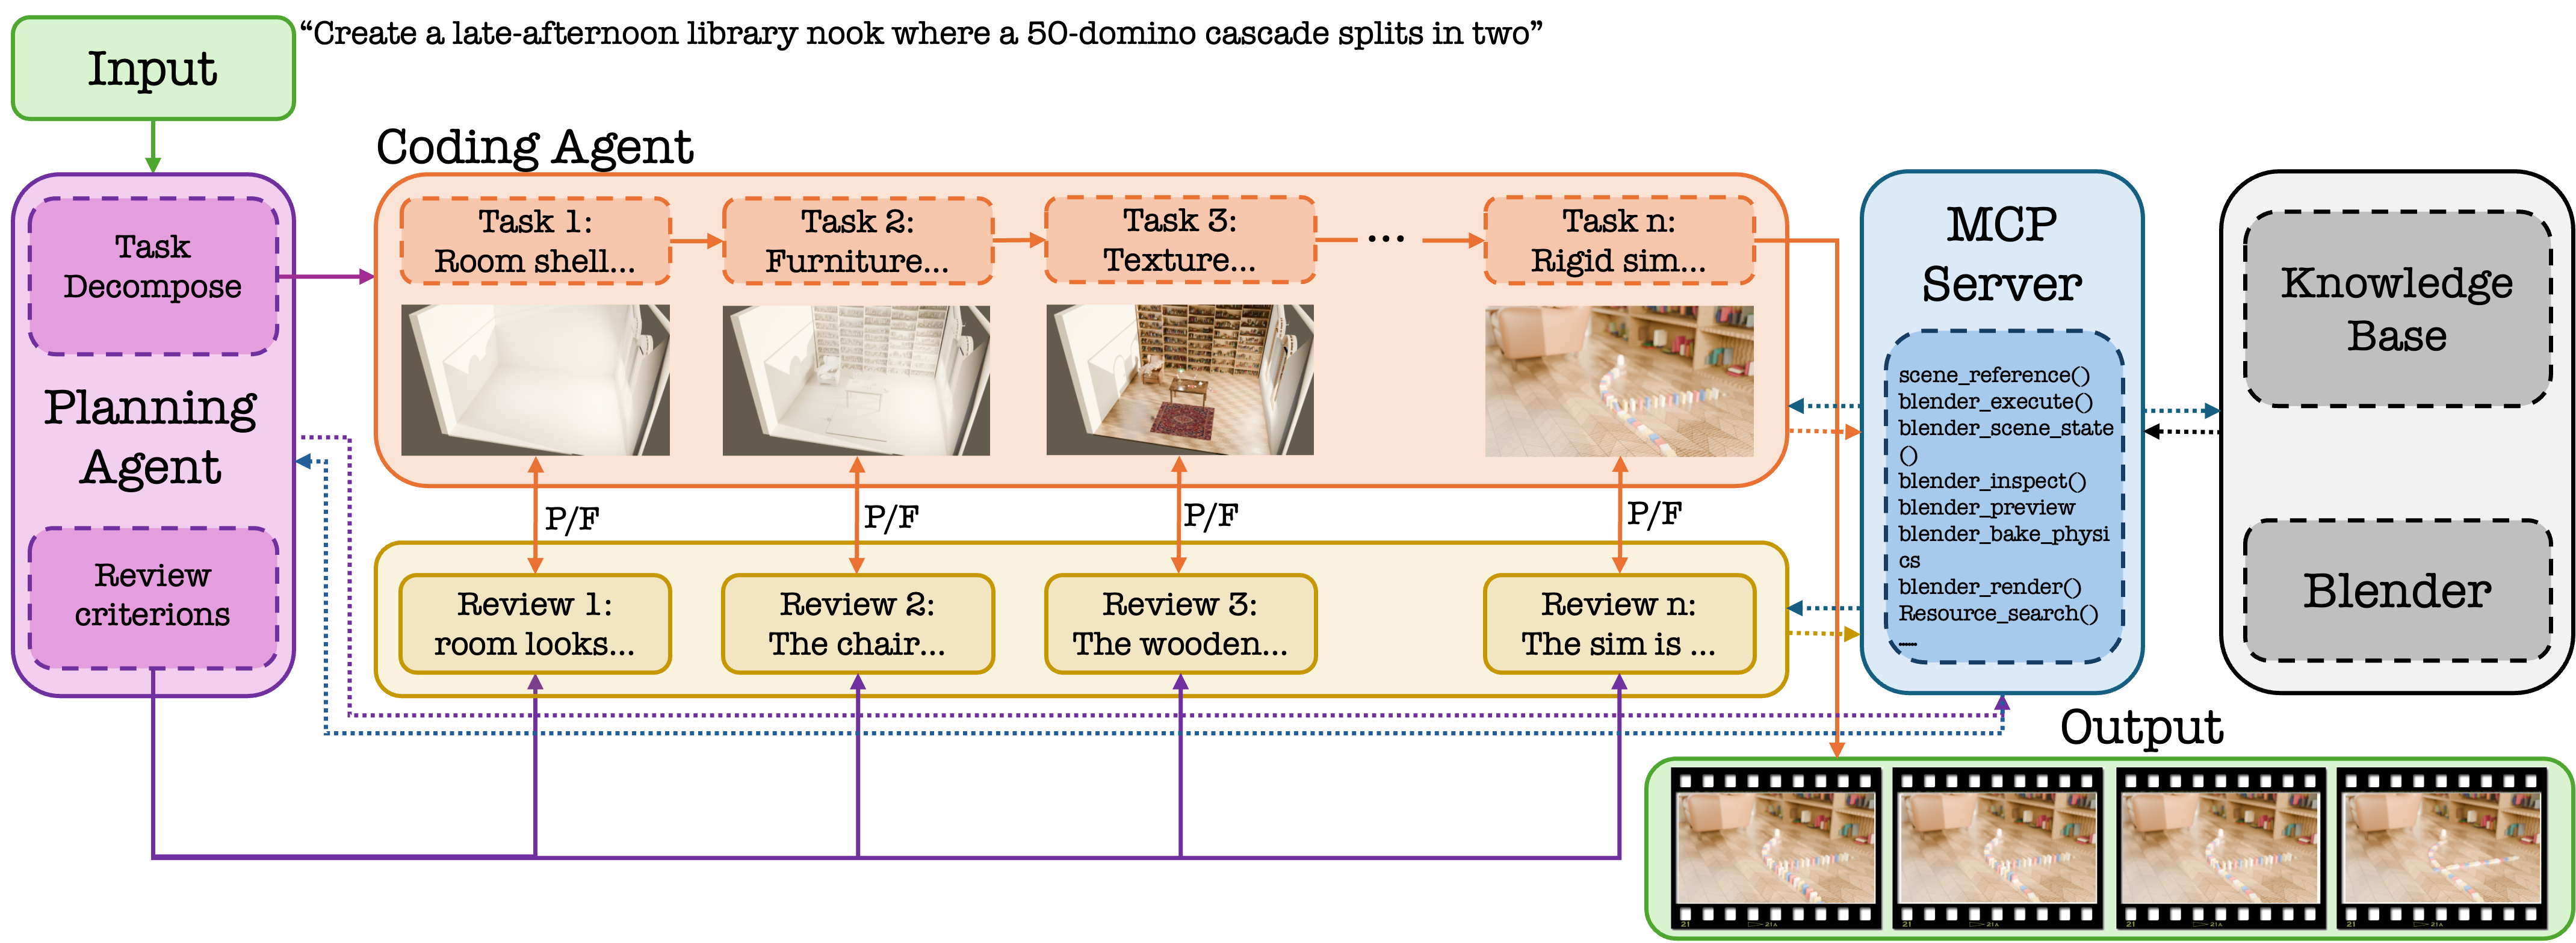
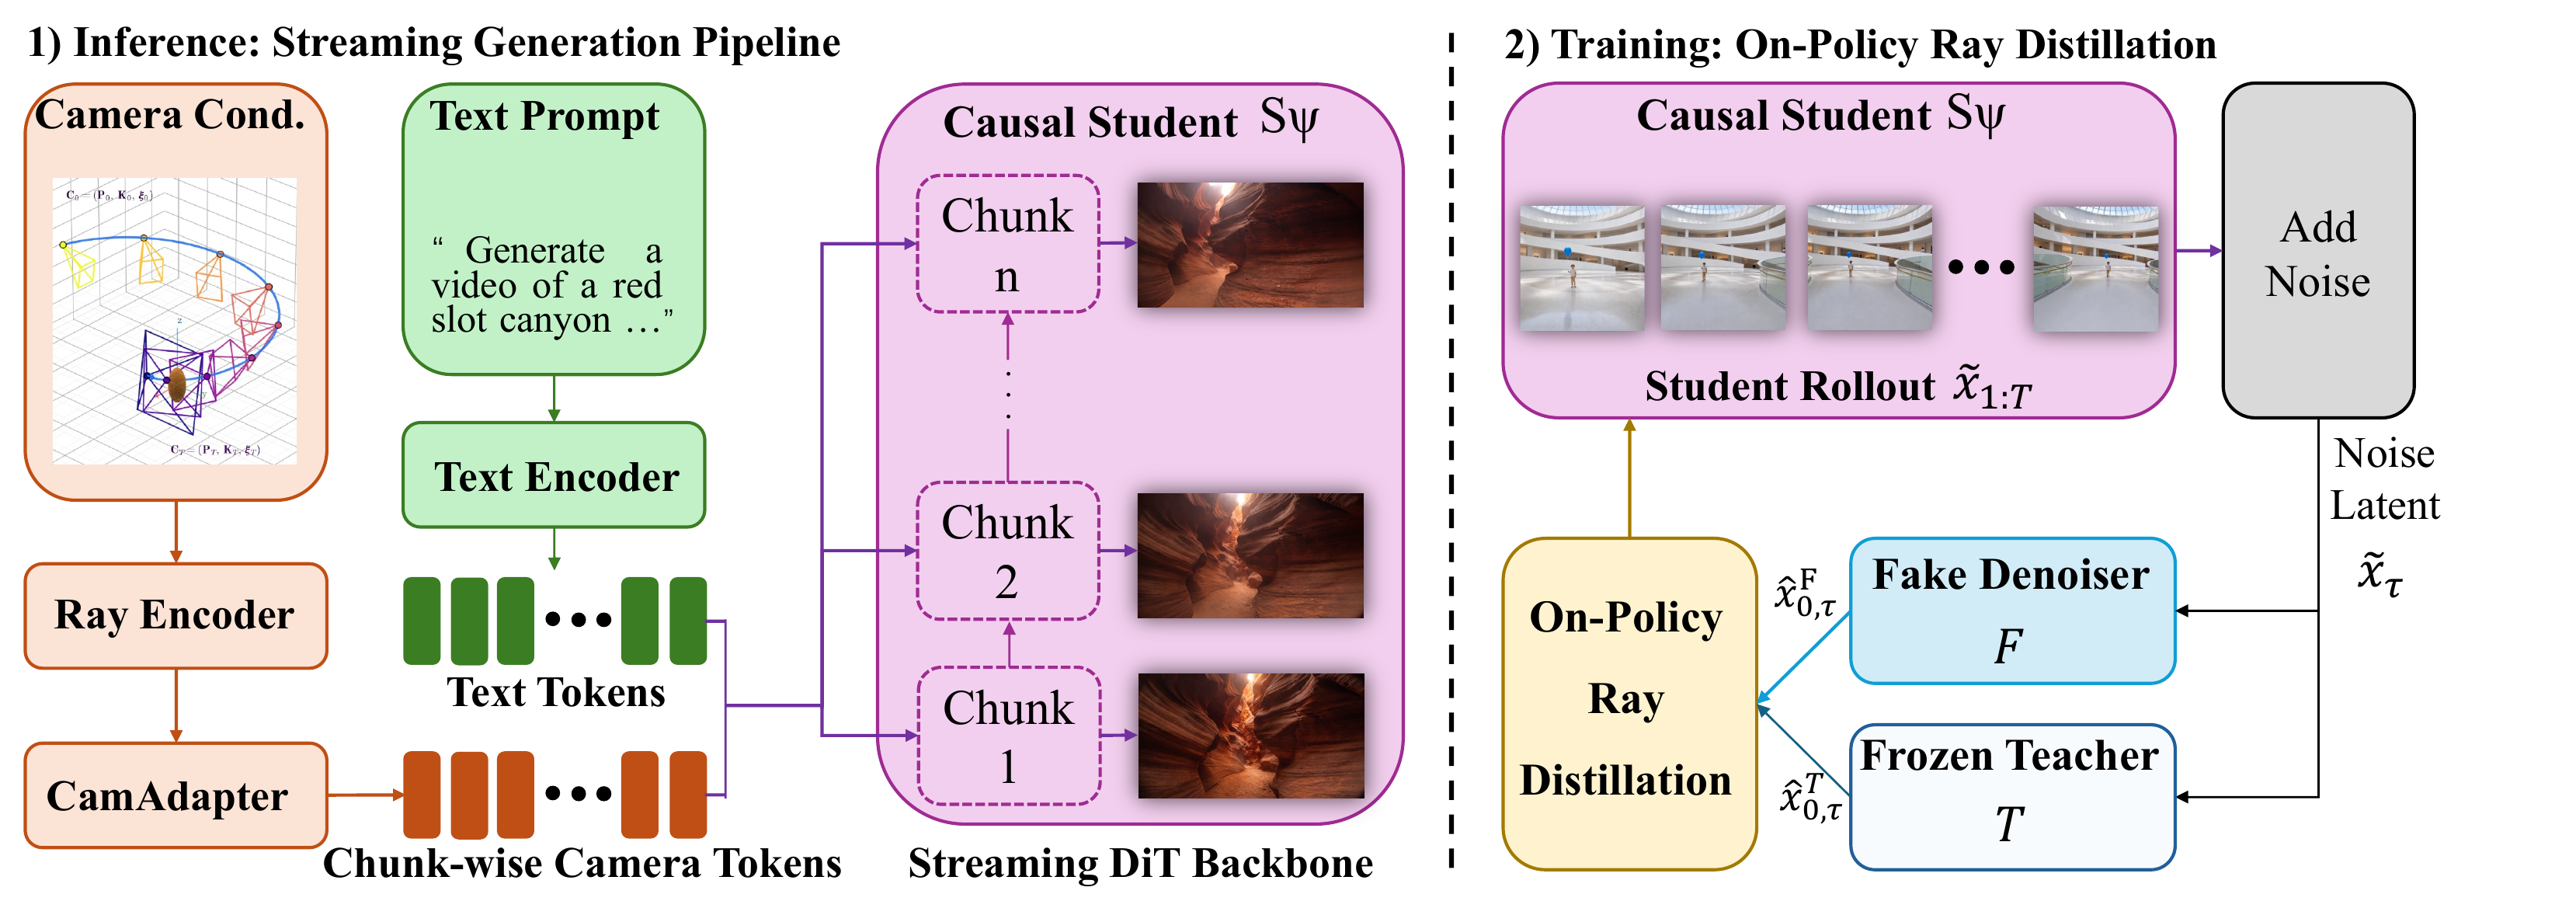
Update: real title/authors, Montserrat fonts, teaser video grid, updated pipeline figure, abstract tweaks

diff --git a/index.html b/index.html
@@ -3,18 +3,18 @@
 <head>
 <meta charset="utf-8">
 <meta name="viewport" content="width=device-width, initial-scale=1">
-<title>SimWorlds: A Multi-Agent System for Dynamic 3D Scene Creation</title>
-<meta name="description" content="SimWorlds generates physics-grounded dynamic 3D scenes from text — liquids, particles, rigid-body cascades, and articulated motion — via a planner–coder–reviewer multi-agent system, and introduces the 4DBuildBench benchmark.">
+<title>Simulable Worlds from Text: LLM Agents for 4D Scene Creation</title>
+<meta name="description" content="SimWorlds: LLM agents that generate physics-grounded, simulable 4D scenes from text — liquids, particles, and rigid-body cascades — via a planner–coder–reviewer multi-agent system, with the 4DBuildBench benchmark.">
 
 <!-- Social preview -->
-<meta property="og:title" content="SimWorlds: A Multi-Agent System for Dynamic 3D Scene Creation">
+<meta property="og:title" content="Simulable Worlds from Text: LLM Agents for 4D Scene Creation">
 <meta property="og:description" content="Physics-grounded dynamic 3D scenes from text, evaluated with the 4DBuildBench benchmark.">
 <meta property="og:image" content="assets/figures/teaser.png">
 <meta property="og:type" content="website">
 
 <link rel="preconnect" href="https://fonts.googleapis.com">
 <link rel="preconnect" href="https://fonts.gstatic.com" crossorigin>
-<link href="https://fonts.googleapis.com/css?family=Google+Sans:400,500,700|Noto+Sans:400,500,600,700|Castoro" rel="stylesheet">
+<link href="https://fonts.googleapis.com/css2?family=Montserrat:ital,wght@0,300;0,400;0,500;0,600;0,700;0,800;0,900;1,400;1,500&family=Noto+Sans:wght@400;500;600;700;800&display=swap" rel="stylesheet">
 <link href="https://fonts.googleapis.com/css2?family=Roboto+Mono:wght@400;500&display=swap" rel="stylesheet">
 
 <style>
@@ -35,15 +35,15 @@
 html{scroll-behavior:smooth}
 body{
   margin:0;
-  font-family:'Noto Sans',system-ui,-apple-system,Segoe UI,Roboto,sans-serif;
+  font-family:'Montserrat',system-ui,-apple-system,Segoe UI,Roboto,sans-serif;
   color:var(--fg);
   background:var(--bg);
   line-height:1.65;
   -webkit-font-smoothing:antialiased;
   font-size:17px;
 }
-h1,h2,h3,.title,.badge,.btn,.authors,.affil,.stage{
-  font-family:'Google Sans','Noto Sans',system-ui,sans-serif;
+h1,h2,h3,.title,.badge,.btn,.authors,.affil{
+  font-family:'Montserrat',system-ui,sans-serif;
 }
 .wrap{max-width:var(--maxw);margin:0 auto;padding:0 24px}
 a{color:var(--accent);text-decoration:none}
@@ -70,9 +70,11 @@ h1.title{
   line-height:1.12;
   font-weight:800;
   letter-spacing:-0.02em;
-  margin:0 auto 8px;
-  max-width:860px;
-  text-wrap:balance;
+  width:min(1180px,92vw);
+  margin:0 0 8px 50%;
+  transform:translateX(-50%);
+  text-wrap:pretty;
+  font-family:'Noto Sans',system-ui,-apple-system,Segoe UI,sans-serif;
 }
 h1.title .name{
   background:linear-gradient(90deg,var(--accent),var(--accent-2));
@@ -137,10 +139,17 @@ p{margin:0 0 18px}
 .media video{width:100%;height:100%;object-fit:cover;display:block}
 .caption{text-align:center;color:var(--muted);font-size:14.5px;margin-top:14px;max-width:760px;margin-left:auto;margin-right:auto}
 
+/* teaser video grid (multiple clips playing at once) */
+.vgrid{display:grid;grid-template-columns:repeat(4,1fr);gap:10px;
+  width:min(1180px,92vw);margin-left:50%;transform:translateX(-50%)}
+.vgrid video{width:100%;aspect-ratio:16/9;object-fit:cover;display:block;
+  border-radius:10px;border:1px solid var(--line);background:#000}
+@media(max-width:760px){.vgrid{grid-template-columns:repeat(2,1fr)}}
+
 .teaser-img{width:100%;border-radius:var(--radius);border:1px solid var(--line);display:block}
 
 /* abstract */
-.abstract{max-width:760px;margin:0 auto;font-size:17.5px;color:#2a2d36}
+.abstract{max-width:760px;margin:0 auto;font-size:17.5px;color:#2a2d36;text-align:justify;hyphens:auto}
 .abstract p:last-child{margin-bottom:0}
 
 /* ---------- PIPELINE STAGES ---------- */
@@ -165,6 +174,28 @@ p{margin:0 0 18px}
   display:flex;align-items:center;justify-content:center;margin-bottom:14px;font-size:20px;
 }
 .card p{font-size:15px;color:var(--muted);margin:0}
+
+/* ---------- PIPELINE DIAGRAM ---------- */
+.diagram{margin:6px auto 2px;max-width:920px}
+.frow{display:flex;flex-wrap:wrap;align-items:stretch;justify-content:center;gap:10px}
+.node{background:#fff;border:1px solid var(--line);border-radius:12px;padding:11px 16px;text-align:center;display:flex;flex-direction:column;justify-content:center}
+.node .t{font-weight:700;font-size:15px;line-height:1.25}
+.node .s{font-size:12.5px;color:var(--muted);margin-top:3px;line-height:1.3}
+.node.key{border-color:var(--accent);background:var(--accent-soft)}
+.node.key .t{color:var(--accent)}
+.farr{align-self:center;color:var(--soft);font-weight:700;font-size:18px}
+.fdown{text-align:center;color:var(--soft);font-weight:600;font-size:13px;margin:9px 0}
+.fdown b{color:var(--fg);font-weight:600}
+.loopbox{border:1.5px dashed var(--accent);border-radius:16px;padding:16px 16px 14px;
+  background:linear-gradient(180deg,var(--accent-soft),transparent 70%)}
+.loopttl{font-size:12px;font-weight:700;letter-spacing:.05em;text-transform:uppercase;color:var(--accent);text-align:center;margin-bottom:12px}
+.tagrow{display:flex;gap:9px;justify-content:center;flex-wrap:wrap;margin-top:13px}
+.tag{display:inline-block;font-size:12px;font-weight:600;color:var(--muted);background:#fff;border:1px solid var(--line);border-radius:999px;padding:4px 12px}
+.tag.retry{color:var(--accent);border-color:var(--accent)}
+@media(max-width:760px){
+  .frow{flex-direction:column;align-items:stretch}
+  .farr{align-self:center;transform:rotate(90deg)}
+}
 
 /* ---------- GALLERY ---------- */
 .gallery{display:grid;grid-template-columns:repeat(2,1fr);gap:20px}
@@ -219,21 +250,21 @@ footer{padding:40px 0 56px;text-align:center;color:var(--soft);font-size:14px}
 <!-- ===================== HERO ===================== -->
 <header class="hero">
   <div class="wrap">
-    <span class="badge">Text → Dynamic 3D Scene</span>
-    <h1 class="title"><span class="name">SimWorlds</span>: A Multi-Agent System for Dynamic 3D Scene Creation</h1>
-    <p class="subtitle">Physics-grounded dynamic 3D scenes from text alone — flowing liquids, emitting particles, and rigid-body cascades.</p>
+    <span class="badge">Text → 4D Scene</span>
+    <h1 class="title"><span class="name">Simulable Worlds</span> from Text: LLM Agents for 4D Scene Creation</h1>
 
     <div class="authors">
-      <a href="#">Author One</a><sup>1</sup>,
-      <a href="#">Author Two</a><sup>1</sup>,
-      <a href="#">Author Three</a><sup>2</sup>,
-      <a href="#">Author Four</a><sup>1,2</sup>
+      <a href="#">Chunjiang Liu</a><sup>1</sup>,
+      <a href="#">Xiaoyuan Wang</a><sup>1</sup>,
+      <a href="#">Haoyu Chen</a><sup>1</sup>,
+      <a href="#">Yizhou Zhao</a><sup>1</sup>,
+      <a href="#">Ming-Hsuan Yang</a><sup>2</sup>,
+      <a href="#">Laszlo A. Jeni</a><sup>1</sup>
     </div>
-    <div class="affil"><sup>1</sup>Affiliation One &nbsp;·&nbsp; <sup>2</sup>Affiliation Two</div>
-    <div class="note">Under review · placeholder author list</div>
+    <div class="affil"><sup>1</sup>Carnegie Mellon University &nbsp;·&nbsp; <sup>2</sup>UC Merced</div>
 
     <div class="links">
-      <a class="btn" href="#"><svg viewBox="0 0 384 512"><path d="M320 464c8.8 0 16-7.2 16-16V160h-80c-17.7 0-32-14.3-32-32V48H64c-8.8 0-16 7.2-16 16v384c0 8.8 7.2 16 16 16h256zM0 64C0 28.7 28.7 0 64 0h165.5c17 0 33.3 6.7 45.3 18.7l90.5 90.5c12 12 18.7 28.3 18.7 45.3V448c0 35.3-28.7 64-64 64H64c-35.3 0-64-28.7-64-64V64z"/></svg>Paper</a>
+      <a class="btn" href="#"><svg viewBox="0 0 384 512"><path d="M320 464c8.8 0 16-7.2 16-16V160h-80c-17.7 0-32-14.3-32-32V48H64c-8.8 0-16 7.2-16 16v384c0 8.8 7.2 16 16 16h256zM0 64C0 28.7 28.7 0 64 0h165.5c17 0 33.3 6.7 45.3 18.7l90.5 90.5c12 12 18.7 28.3 18.7 45.3V448c0 35.3-28.7 64-64 64H64c-35.3 0-64-28.7-64-64V64z"/></svg>arXiv</a>
       <a class="btn alt" href="#"><span style="font-size:17px;line-height:1">🤗</span>Dataset</a>
       <a class="btn alt" href="#"><svg viewBox="0 0 496 512"><path d="M165.9 397.4c0 2-2.3 3.6-5.2 3.6-3.3.3-5.6-1.3-5.6-3.6 0-2 2.3-3.6 5.2-3.6 3-.3 5.6 1.3 5.6 3.6zm-31.1-4.5c-.7 2 1.3 4.3 4.3 4.9 2.6 1 5.6 0 6.2-2s-1.3-4.3-4.3-5.2c-2.6-.7-5.5.3-6.2 2.3zm44.2-1.7c-2.9.7-4.9 2.6-4.6 4.9.3 2 2.9 3.3 5.9 2.6 2.9-.7 4.9-2.6 4.6-4.6-.3-1.9-3-3.2-5.9-2.9zM244.8 8C106.1 8 0 113.3 0 252c0 110.9 69.8 205.8 169.5 239.2 12.8 2.3 17.3-5.6 17.3-12.1 0-6.2-.3-40.4-.3-61.4 0 0-70 15-84.7-29.8 0 0-11.4-29.1-27.8-36.6 0 0-22.9-15.7 1.6-15.4 0 0 24.9 2 38.6 25.8 21.9 38.6 58.6 27.5 72.9 20.9 2.3-16 8.8-27.1 16-33.7-55.9-6.2-112.3-14.3-112.3-110.5 0-27.5 7.6-41.3 23.6-58.9-2.6-6.5-11.1-33.3 2.6-67.9 20.9-6.5 69 27 69 27 20-5.6 41.5-8.5 62.8-8.5s42.8 2.9 62.8 8.5c0 0 48.1-33.6 69-27 13.7 34.7 5.2 61.4 2.6 67.9 16 17.7 25.8 31.5 25.8 58.9 0 96.5-58.9 104.2-114.8 110.5 9.2 7.9 17 22.9 17 46.4 0 33.7-.3 75.4-.3 83.6 0 6.5 4.6 14.4 17.3 12.1C428.2 457.8 496 362.9 496 252 496 113.3 383.5 8 244.8 8z"/></svg>Code</a>
       <a class="btn disabled" aria-disabled="true"><svg viewBox="0 0 384 512"><path d="M73 39c-14.8-9.1-33.4-9.4-48.5-.9S0 62.6 0 80V432c0 17.4 9.4 33.4 24.5 41.9s33.7 8.1 48.5-.9L361 297c14.3-8.7 23-24.2 23-41s-8.7-32.2-23-41L73 39z"/></svg>Video (soon)</a>
@@ -244,13 +275,16 @@ footer{padding:40px 0 56px;text-align:center;color:var(--soft);font-size:14px}
 <!-- ===================== TEASER ===================== -->
 <section>
   <div class="wrap">
-    <div class="media">
-      <video controls poster="assets/figures/teaser.png" preload="none">
-        <!-- Drop the teaser .mp4 here, e.g. assets/videos/teaser.mp4 -->
-        <source src="assets/videos/teaser.mp4" type="video/mp4">
-      </video>
+    <div class="vgrid">
+      <video src="assets/videos/cloth_L2_02.mp4" autoplay loop muted playsinline></video>
+      <video src="assets/videos/fluid_L3_02.mp4" autoplay loop muted playsinline></video>
+      <video src="assets/videos/rigid_L3_03.mp4" autoplay loop muted playsinline></video>
+      <video src="assets/videos/soft_L2_02.mp4" autoplay loop muted playsinline></video>
+      <video src="assets/videos/cloth_L2_03.mp4" autoplay loop muted playsinline></video>
+      <video src="assets/videos/fluid_L3_03.mp4" autoplay loop muted playsinline></video>
+      <video src="assets/videos/rigid_L3_03b.mp4" autoplay loop muted playsinline></video>
+      <video src="assets/videos/soft_L3_03.mp4" autoplay loop muted playsinline></video>
     </div>
-    <p class="caption"><strong>Teaser (placeholder).</strong> SimWorlds turns a single text prompt into a simulation-ready dynamic scene. Poster shows the paper teaser figure; drop <code>assets/videos/teaser.mp4</code> in to replace.</p>
   </div>
 </section>
 
@@ -259,9 +293,14 @@ footer{padding:40px 0 56px;text-align:center;color:var(--soft);font-size:14px}
   <div class="wrap">
     <h2>Abstract</h2>
     <div class="abstract">
-      <p>LLM agents are increasingly used to translate natural language into 3D scenes in a procedural way, but existing systems focus on <em>static</em> output. Dynamic, simulation-ready scenes from text alone — liquids flowing, particles emitting, rigid-body cascades, and articulated mechanical motion — remain largely unexplored despite their value as editable content and as physics-grounded training data for video generation and embodied AI.</p>
-      <p>Two challenges set the dynamic case apart from static text-to-scene work: an agent must jointly coordinate spatial layout, multiple physics solvers, animation timelines, camera, and lighting in a single coherent scene; and verifying motion correctness from rendered video is fundamentally harder than judging a single image. We present <strong>SimWorlds</strong>, a multi-agent framework that produces simulation-ready dynamic 3D scenes from text, with Blender-specific procedural knowledge, a planner–coder–reviewer workflow driving a fixed ordered sequence of construction stages, a layered scene protocol enforced by an orchestrator-side verifier, and a runtime-state inspection tool suite that catches mechanism failures the rendered image cannot reveal. We also introduce <strong>4DBuildBench</strong>, a benchmark for assessing both visual fidelity and physical consistency of procedural dynamic 3D scenes generated from text. Experiments show that SimWorlds outperforms prior dynamic Blender generation baselines.</p>
+      <p>LLM agents are increasingly used to translate natural language into 3D scenes in a procedural way, but existing systems focus on <em>static</em> output. Dynamic, simulation-ready scenes from text alone — liquids flowing, particles emitting, rigid-body cascades, and articulated motion — remain unexplored despite their value as editable content and as physics-grounded training data for video generation and embodied AI.</p>
+      <p>Two challenges set the dynamic case apart from static text-to-scene work: an agent must jointly coordinate spatial layout, multiple physics solvers, animation timelines, camera, and lighting in a single coherent scene; and verifying motion correctness from rendered video is fundamentally harder than judging a single image. We present SimWorlds, a multi-agent framework that produces simulation-ready dynamic 3D scenes from text, with Blender-specific procedural knowledge, a planner–coder–reviewer workflow driving a fixed ordered sequence of construction stages, a layered scene protocol enforced by an orchestrator-side verifier, and a runtime-state inspection tool suite that catches mechanism failures the rendered image cannot reveal. We also introduce 4DBuildBench, a benchmark for assessing both visual fidelity and physical consistency of procedural dynamic 3D scenes generated from text. Experiments show that SimWorlds outperforms prior dynamic Blender generation baselines.</p>
     </div>
+
+    <figure style="max-width:760px;margin:36px auto 0">
+      <img class="teaser-img" src="assets/figures/teaser.png" alt="SimWorlds teaser figure">
+      <figcaption class="caption"><strong>Figure 1.</strong> From a single text prompt, SimWorlds produces a physics-grounded, dynamic 3D scene — coordinating spatial layout, multiple physics solvers, animation, camera, and lighting in one coherent build.</figcaption>
+    </figure>
   </div>
 </section>
 
@@ -271,7 +310,8 @@ footer{padding:40px 0 56px;text-align:center;color:var(--soft);font-size:14px}
     <h2>How SimWorlds Works</h2>
     <p class="lead">A planner–coder–reviewer loop drives a fixed, ordered sequence of construction stages. The planner stays qualitative; the coder owns every number; the reviewer re-judges from rendered evidence.</p>
 
-    <img class="teaser-img" src="assets/figures/pipeline.png" alt="SimWorlds pipeline">
+    <img class="teaser-img" src="assets/figures/pipeline.png" alt="SimWorlds pipeline"
+         style="width:min(1180px,92vw);margin-left:50%;transform:translateX(-50%)">
 
     <div class="stages">
       <span class="stage">modeling</span><span class="arrow">→</span>
@@ -408,25 +448,6 @@ footer{padding:40px 0 56px;text-align:center;color:var(--soft);font-size:14px}
   </div>
 </section>
 
-<!-- ===================== BIBTEX ===================== -->
-<section>
-  <div class="wrap">
-    <h2>BibTeX</h2>
-    <pre class="bib"><span class="k">@inproceedings</span>{simworlds2026,
-  <span class="k">title</span>     = {<span class="s">SimWorlds: A Multi-Agent System for Dynamic 3D Scene Creation</span>},
-  <span class="k">author</span>    = {<span class="s">Anonymous Authors</span>},
-  <span class="k">booktitle</span> = {<span class="s">Under review</span>},
-  <span class="k">year</span>      = {<span class="s">2026</span>}
-}</pre>
-  </div>
-</section>
-
-<footer>
-  <div class="wrap">
-    <p>SimWorlds · project page. Built with placeholder media — swap figures in <code>assets/figures/</code> and videos in <code>assets/videos/</code>.</p>
-    <p style="margin-top:6px">Page design inspired by minimal academic project templates.</p>
-  </div>
-</footer>
 
 </body>
 </html>